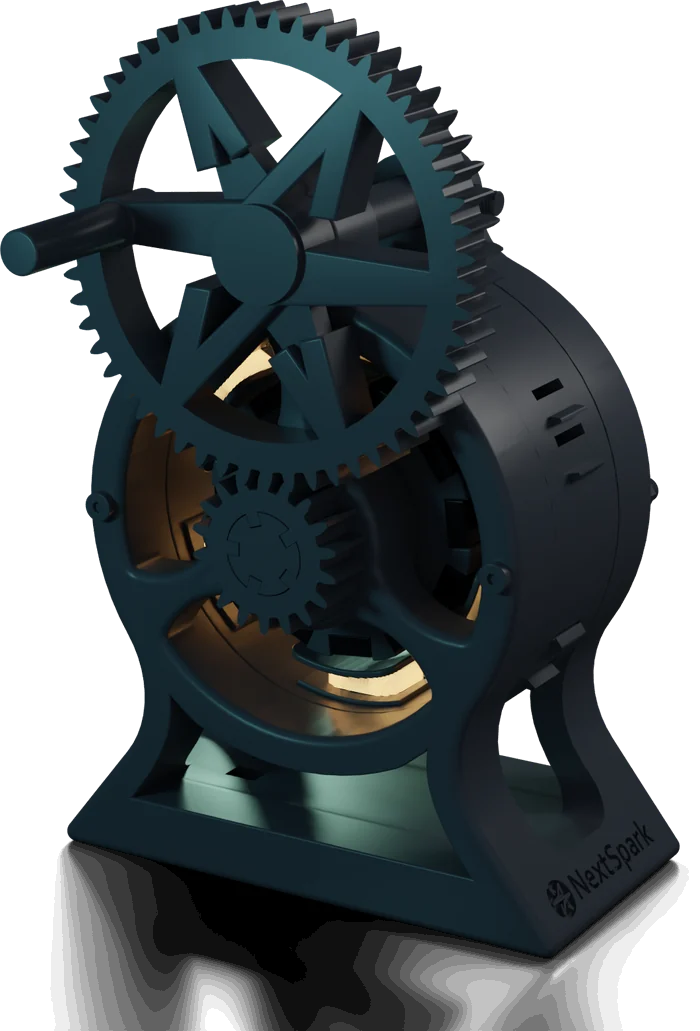
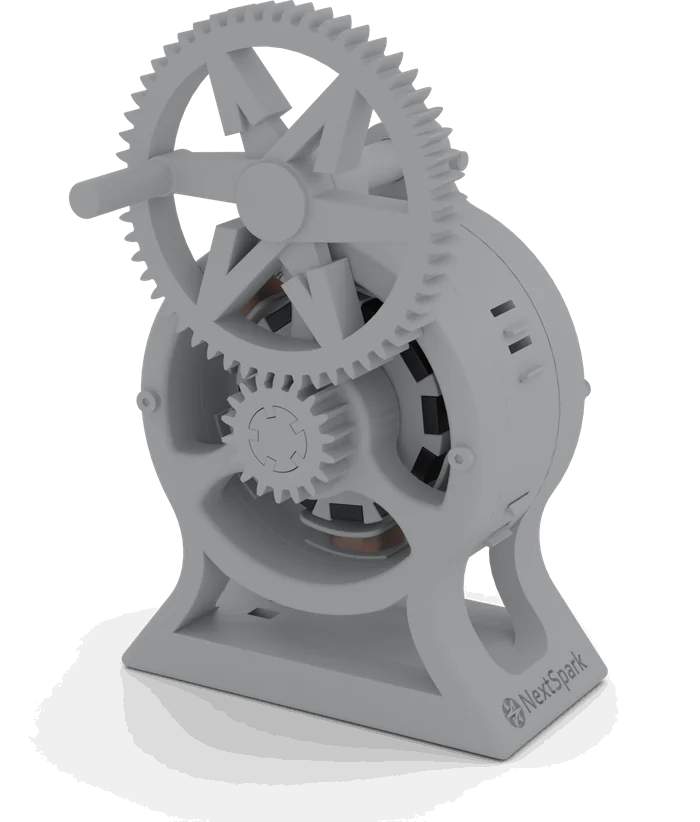
Re-light the kit clean, and quieten the drag hint
Replaces the dark bake. Neutral lighting only: a directional key for form, a
soft cool fill so the shadow side is not dead, and a discreet top-back rim so
the silhouette lifts off a pale page. Copper is copper again rather than
emitting, and the magnets keep the contrast that makes twelve of them
countable in the rotor.

The grey PLA now carries fine roughness variation and a faint bump in object
space, so the surface has some life close up instead of reading as one flat
material. That is the only trick in the render, and it is meant to be felt
rather than noticed.

The drag affordance was a dark pill sitting over the base. It is now a small
pair of arrows and muted label sitting below the kit, which stops it
competing with the thing it is pointing at.

Open Graph card rebuilt light to match.

Renders got cheaper on the way through: 24 frames at 417KB (from 447KB) and
the hero still at 54KB (from 85KB).

Claude-Session: https://claude.ai/code/session_01LdxJWcHF7Uttpscv2oTGzk

diff --git a/src/components/render/FrameScrubber.tsx b/src/components/render/FrameScrubber.tsx
@@ -181,7 +181,10 @@ const FrameScrubber = ({
       ))}
 
       {interactive && showHint && (
-        <div className="pointer-events-none absolute bottom-4 left-1/2 -translate-x-1/2 px-3 py-1.5 rounded-full bg-foreground/70 text-background text-xs font-medium backdrop-blur-sm">
+        <div className="pointer-events-none absolute -bottom-1 left-1/2 -translate-x-1/2 flex items-center gap-1.5 text-[0.7rem] font-medium tracking-wide text-muted-foreground/80">
+          <svg viewBox="0 0 24 24" width="13" height="13" fill="none" stroke="currentColor" strokeWidth="2" strokeLinecap="round" aria-hidden="true">
+            <path d="M9 6 5 12l4 6M15 6l4 6-4 6" />
+          </svg>
           {hint}
         </div>
       )}
